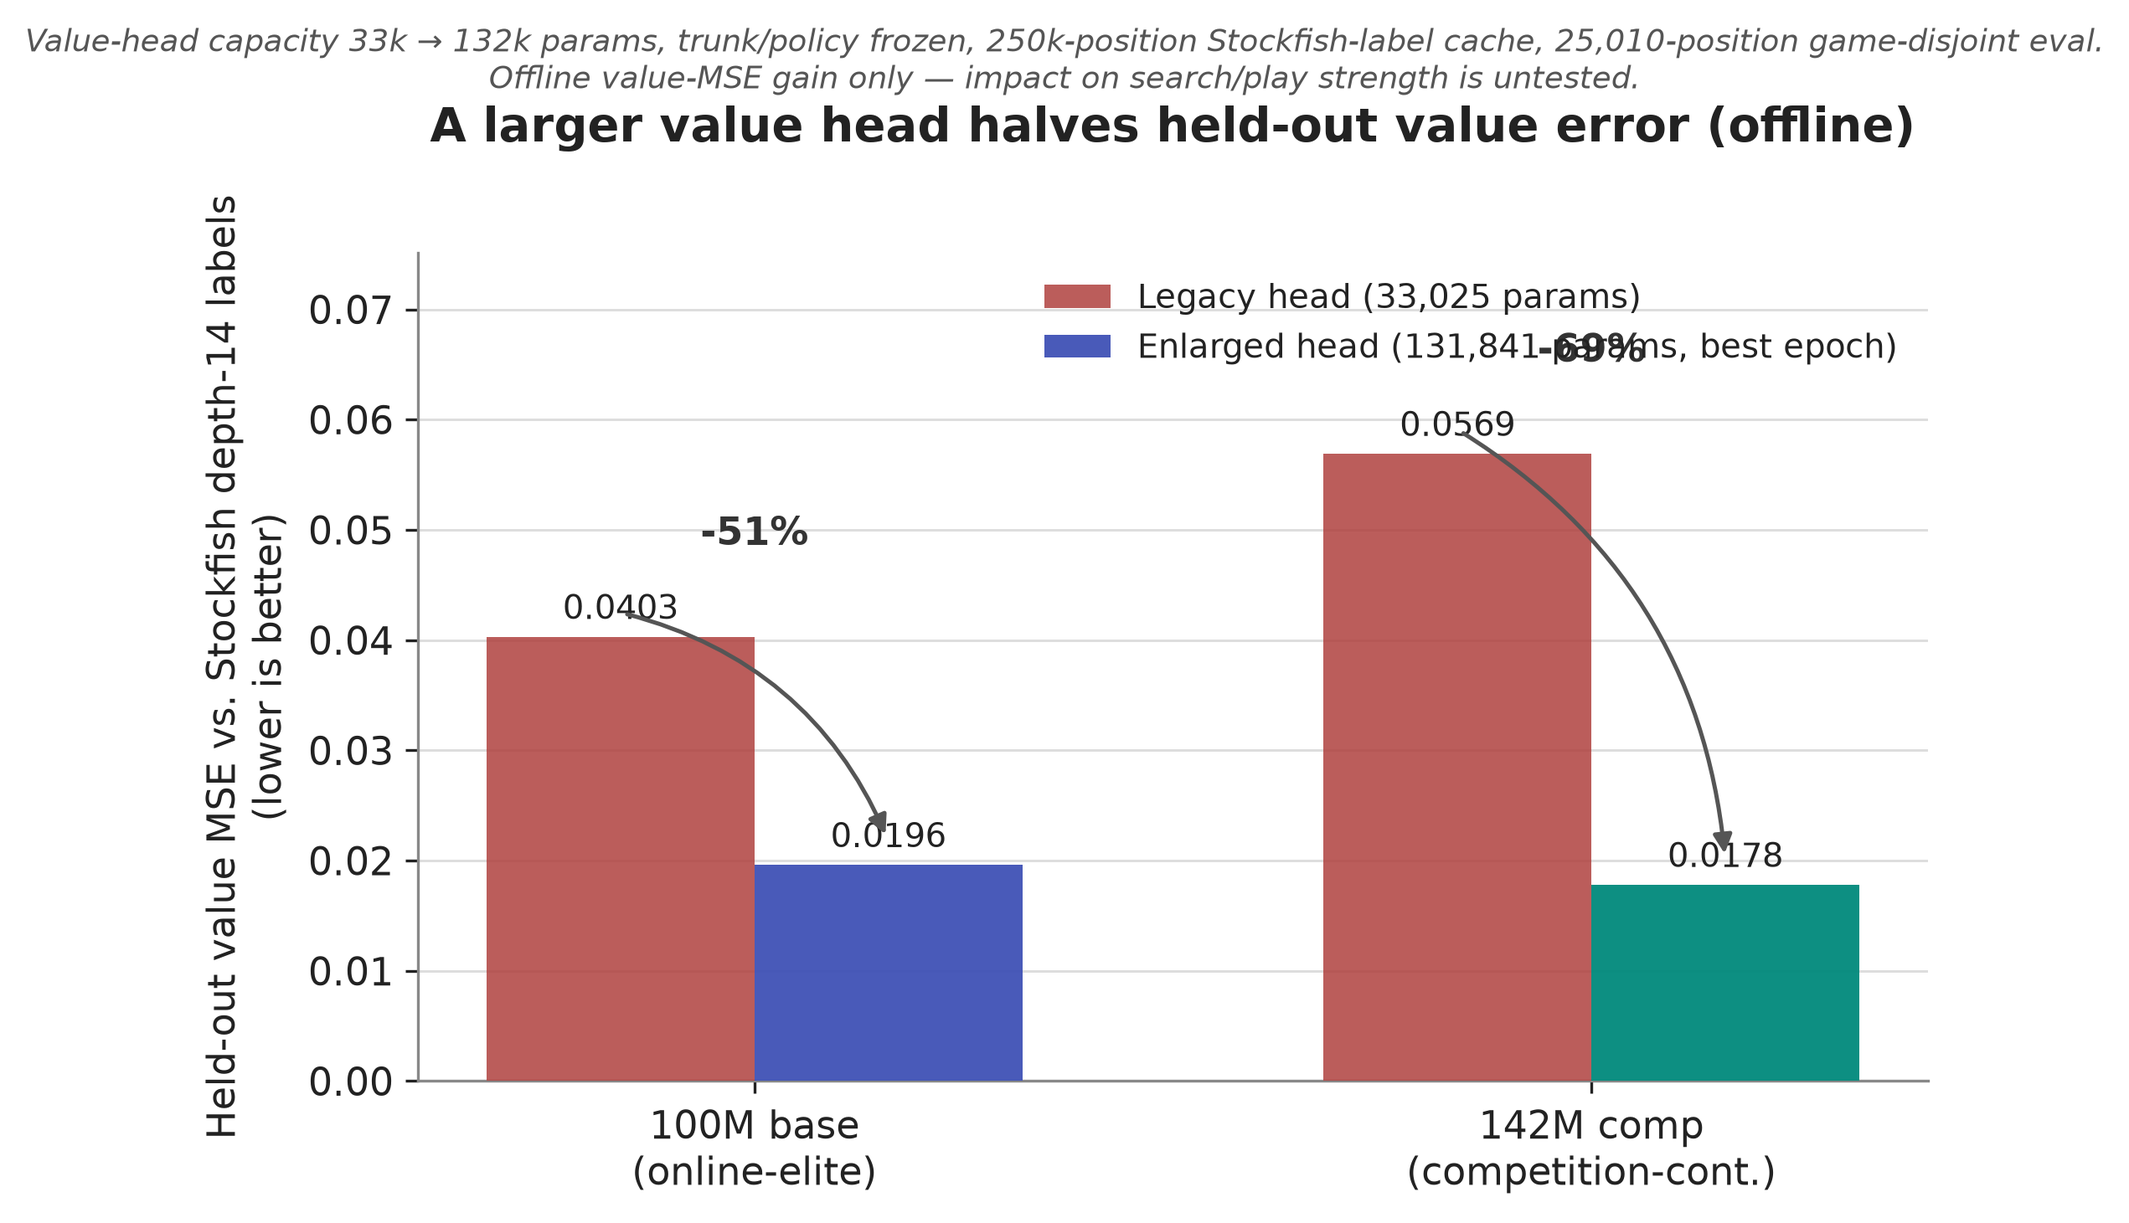
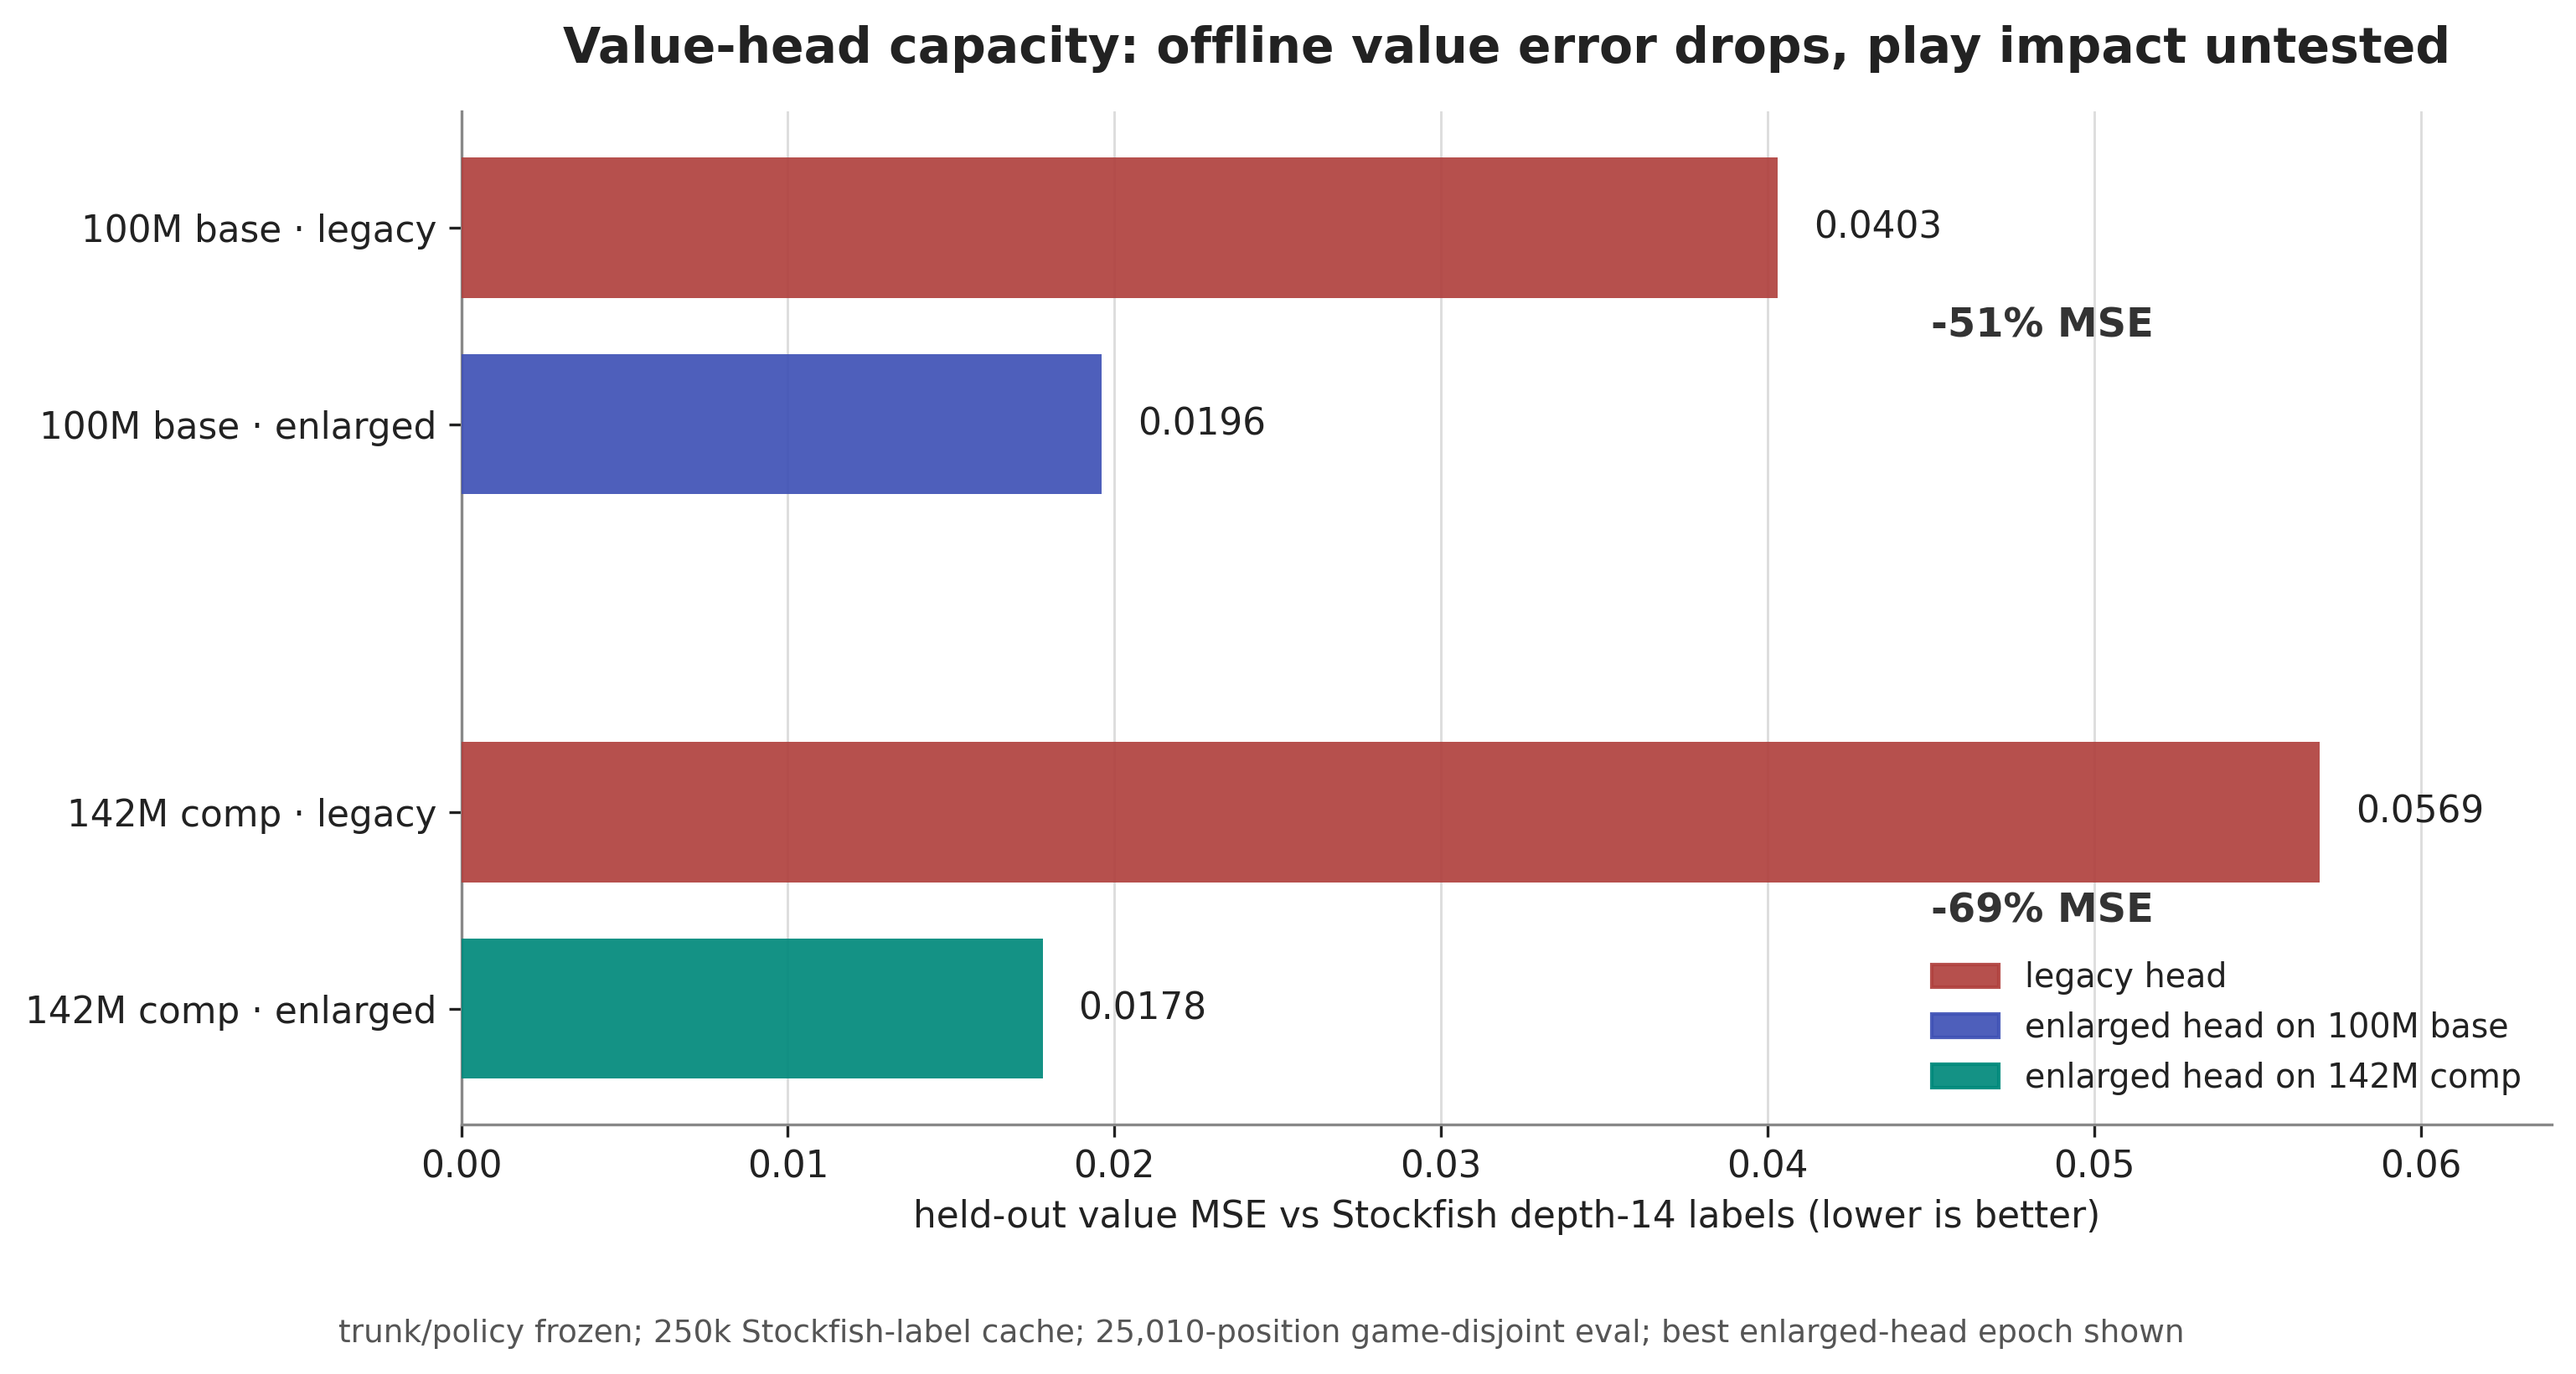
docs: clean value head figures

diff --git a/scripts/plot_value_head.py b/scripts/plot_value_head.py
@@ -5,10 +5,18 @@ and writes two PNGs to reports/value_head/.
 """
 from __future__ import annotations
 
+import os
+import tempfile
+from pathlib import Path
+
+os.environ.setdefault(
+    "MPLCONFIGDIR",
+    str(Path(tempfile.gettempdir()) / "kibitzer-matplotlib"),
+)
+
 import matplotlib
 matplotlib.use("Agg")
 import matplotlib.pyplot as plt
-import matplotlib.font_manager as fm
 import numpy as np
 
 OUT_DIR = "reports/value_head"
@@ -25,7 +33,7 @@ LEGACY_MARK = "#B0413E"   # muted red for legacy reference lines/bars
 plt.rcParams.update({
     "font.family": "sans-serif",
     "font.sans-serif": ["DejaVu Sans", "Arial", "Helvetica"],
-    "font.size": 11,
+    "font.size": 10.5,
     "axes.edgecolor": "#888888",
     "axes.linewidth": 0.8,
     "text.color": TEXT_COLOR,
@@ -56,67 +64,72 @@ pct_base = (best_base_mse - legacy_base_mse) / legacy_base_mse * 100
 pct_comp = (best_comp_mse - legacy_comp_mse) / legacy_comp_mse * 100
 
 # =====================================================================
-# Figure 1: before / after grouped bar chart
+# Figure 1: before / after horizontal bars
 # =====================================================================
-fig, ax = plt.subplots(figsize=(7.2, 5.2))
+fig, ax = plt.subplots(figsize=(10.8, 5.9))
 
-groups = ["100M base\n(online-elite)", "142M comp\n(competition-cont.)"]
-x = np.arange(len(groups))
-width = 0.32
+labels = [
+    "100M base · legacy",
+    "100M base · enlarged",
+    "142M comp · legacy",
+    "142M comp · enlarged",
+]
+values = [legacy_base_mse, best_base_mse, legacy_comp_mse, best_comp_mse]
+colors = [LEGACY_MARK, BASE_COLOR, LEGACY_MARK, COMP_COLOR]
+y = np.array([0.0, 0.42, 1.25, 1.67])
 
-legacy_vals = [legacy_base_mse, legacy_comp_mse]
-enlarged_vals = [best_base_mse, best_comp_mse]
+bars = ax.barh(y, values, height=0.30, color=colors, alpha=0.92, zorder=3)
+for rect, val in zip(bars, values):
+    ax.text(val + 0.0011, rect.get_y() + rect.get_height() / 2, f"{val:.4f}",
+            ha="left", va="center", fontsize=10.5, color=TEXT_COLOR)
 
-bars_legacy = ax.bar(x - width / 2, legacy_vals, width, label="Legacy head (33,025 params)",
-                      color=LEGACY_MARK, alpha=0.85, edgecolor="none", zorder=3)
-bars_enlarged = ax.bar(x + width / 2, enlarged_vals, width, label="Enlarged head (131,841 params, best epoch)",
-                        color=[BASE_COLOR, COMP_COLOR], alpha=0.95, edgecolor="none", zorder=3)
+ax.text(0.045, 0.21, f"{pct_base:.0f}% MSE", ha="left", va="center",
+        fontsize=11.5, fontweight="bold", color="#333333")
+ax.text(0.045, 1.46, f"{pct_comp:.0f}% MSE", ha="left", va="center",
+        fontsize=11.5, fontweight="bold", color="#333333")
 
-# value labels on bars
-for rect, val in zip(bars_legacy, legacy_vals):
-    ax.text(rect.get_x() + rect.get_width() / 2, val + 0.0009, f"{val:.4f}",
-            ha="center", va="bottom", fontsize=9.5, color=TEXT_COLOR)
-for rect, val in zip(bars_enlarged, enlarged_vals):
-    ax.text(rect.get_x() + rect.get_width() / 2, val + 0.0009, f"{val:.4f}",
-            ha="center", va="bottom", fontsize=9.5, color=TEXT_COLOR)
-
-# percent-reduction annotations, connecting legacy -> enlarged
-pct_labels = [f"-{abs(pct_base):.0f}%", f"-{abs(pct_comp):.0f}%"]
-for i, (lv, ev, pl) in enumerate(zip(legacy_vals, enlarged_vals, pct_labels)):
-    y_arrow = lv + 0.0035
-    ax.annotate(
-        "", xy=(x[i] + width / 2, ev + 0.0022), xytext=(x[i] - width / 2, lv + 0.0022),
-        arrowprops=dict(arrowstyle="-|>", color="#555555", lw=1.2,
-                         connectionstyle="arc3,rad=-0.25"),
-    )
-    ax.text(x[i], lv + 0.0075, pl, ha="center", va="bottom", fontsize=11,
-            fontweight="bold", color="#333333")
-
-ax.set_xticks(x)
-ax.set_xticklabels(groups)
-ax.set_ylabel("Held-out value MSE vs. Stockfish depth-14 labels\n(lower is better)")
-ax.set_ylim(0, max(legacy_vals) * 1.32)
-ax.grid(axis="y", color=GRID_COLOR, linewidth=0.7, zorder=0)
+ax.set_yticks(y)
+ax.set_yticklabels(labels)
+ax.invert_yaxis()
+ax.set_xlabel("held-out value MSE vs Stockfish depth-14 labels (lower is better)")
+ax.set_xlim(0.0, 0.064)
+ax.grid(axis="x", color=GRID_COLOR, linewidth=0.7, zorder=0)
 ax.set_axisbelow(True)
 for spine in ("top", "right"):
     ax.spines[spine].set_visible(False)
 
-ax.legend(loc="upper right", frameon=False, fontsize=9.5)
+legend_handles = [
+    plt.Rectangle((0, 0), 1, 1, color=LEGACY_MARK, alpha=0.92),
+    plt.Rectangle((0, 0), 1, 1, color=BASE_COLOR, alpha=0.92),
+    plt.Rectangle((0, 0), 1, 1, color=COMP_COLOR, alpha=0.92),
+]
+ax.legend(
+    legend_handles,
+    ["legacy head", "enlarged head on 100M base", "enlarged head on 142M comp"],
+    loc="lower right",
+    frameon=False,
+    fontsize=9.5,
+)
+ax.set_title("Value-head capacity: offline value error drops, play impact untested",
+             fontsize=14, fontweight="bold", pad=14)
+fig.text(
+    0.5,
+    0.02,
+    "trunk/policy frozen; 250k Stockfish-label cache; 25,010-position game-disjoint eval; best enlarged-head epoch shown",
+    ha="center",
+    va="bottom",
+    fontsize=9,
+    color="#555555",
+)
 
-ax.set_title("A larger value head halves held-out value error (offline)", fontsize=13.5, fontweight="bold", pad=32)
-fig.text(0.5, 0.93,
-          "Value-head capacity 33k → 132k params, trunk/policy frozen, 250k-position Stockfish-label cache, 25,010-position game-disjoint eval.\n"
-          "Offline value-MSE gain only — impact on search/play strength is untested.",
-          ha="center", va="top", fontsize=8.8, color="#555555", style="italic")
-
-fig.tight_layout(rect=[0, 0, 1, 0.90])
+fig.tight_layout(rect=[0.03, 0.07, 0.99, 0.94])
 fig.savefig(f"{OUT_DIR}/fig_valuehead_beforeafter.png", bbox_inches="tight")
 plt.close(fig)
 
 # =====================================================================
 # Figure 2: eval MSE vs epoch, both models, legacy reference lines
 # =====================================================================
-fig, ax = plt.subplots(figsize=(7.6, 5.2))
+fig, ax = plt.subplots(figsize=(10.6, 5.8))
 
 ax.plot(base_epochs, base_eval_mse, marker="o", color=BASE_COLOR, lw=2.0, ms=5.5,
         label="100M base — eval MSE (enlarged head)", zorder=4)
@@ -136,8 +149,8 @@ ax.text(8.05, legacy_comp_mse, "legacy head\n(142M comp)", fontsize=8, color=COM
 # mark best epoch for each
 ax.scatter([best_base_epoch], [best_base_mse], s=90, facecolors="none", edgecolors=BASE_COLOR, lw=1.8, zorder=5)
 ax.scatter([best_comp_epoch], [best_comp_mse], s=90, facecolors="none", edgecolors=COMP_COLOR, lw=1.8, zorder=5)
-ax.annotate("best epoch (2)", xy=(best_base_epoch, best_base_mse), xytext=(3.1, 0.0155),
-            fontsize=8.5, color="#333333",
+ax.annotate("best eval epoch = 2", xy=(best_base_epoch, best_base_mse), xytext=(3.2, 0.0144),
+            fontsize=9, color="#333333",
             arrowprops=dict(arrowstyle="-", color="#999999", lw=0.8))
 
 ax.set_xlabel("Epoch")
@@ -150,16 +163,24 @@ ax.set_axisbelow(True)
 for spine in ("top", "right"):
     ax.spines[spine].set_visible(False)
 
-ax.legend(loc="upper left", frameon=False, fontsize=8.5, ncol=1)
+ax.legend(loc="upper left", frameon=False, fontsize=9, ncol=2)
 
-ax.set_title("Enlarged value head overfits the 250k-position cache after ~2 epochs",
-              fontsize=13, fontweight="bold", pad=32)
+ax.set_title("Enlarged value head overfits after ~2 epochs",
+              fontsize=14, fontweight="bold", pad=14)
 fig.text(0.5, 0.93,
-          "Eval MSE bottoms out at epoch 2 for both bases while train MSE keeps falling (overfitting gap widens); "
-          "dashed lines are the legacy 33k-head eval MSE. Offline metric only — play/search effect untested.",
+          "",
           ha="center", va="top", fontsize=8.6, color="#555555", style="italic")
+fig.text(
+    0.5,
+    0.02,
+    "eval MSE bottoms at epoch 2 while train MSE keeps falling; dashed lines are legacy-head eval MSE. offline metric only.",
+    ha="center",
+    va="bottom",
+    fontsize=9,
+    color="#555555",
+)
 
-fig.tight_layout(rect=[0, 0, 1, 0.90])
+fig.tight_layout(rect=[0.03, 0.07, 0.99, 0.94])
 fig.savefig(f"{OUT_DIR}/fig_valuehead_epochs.png", bbox_inches="tight")
 plt.close(fig)
 
